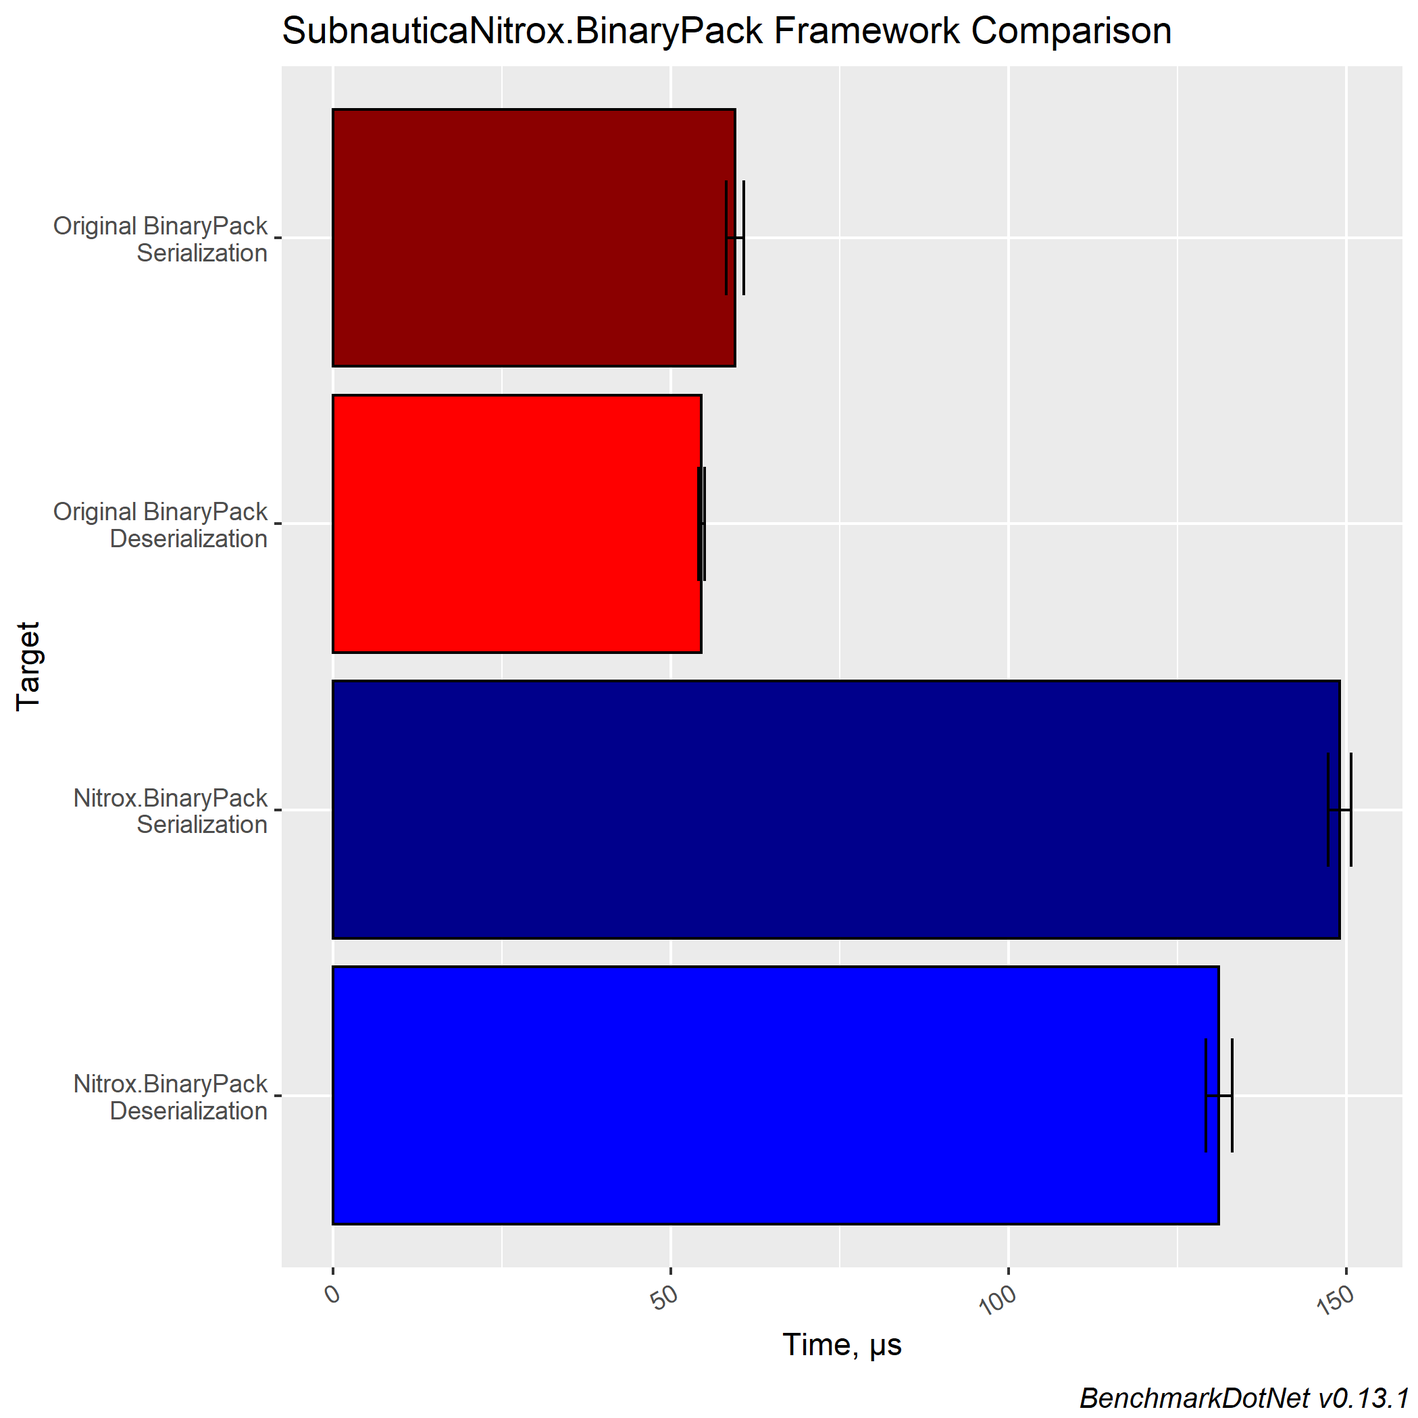
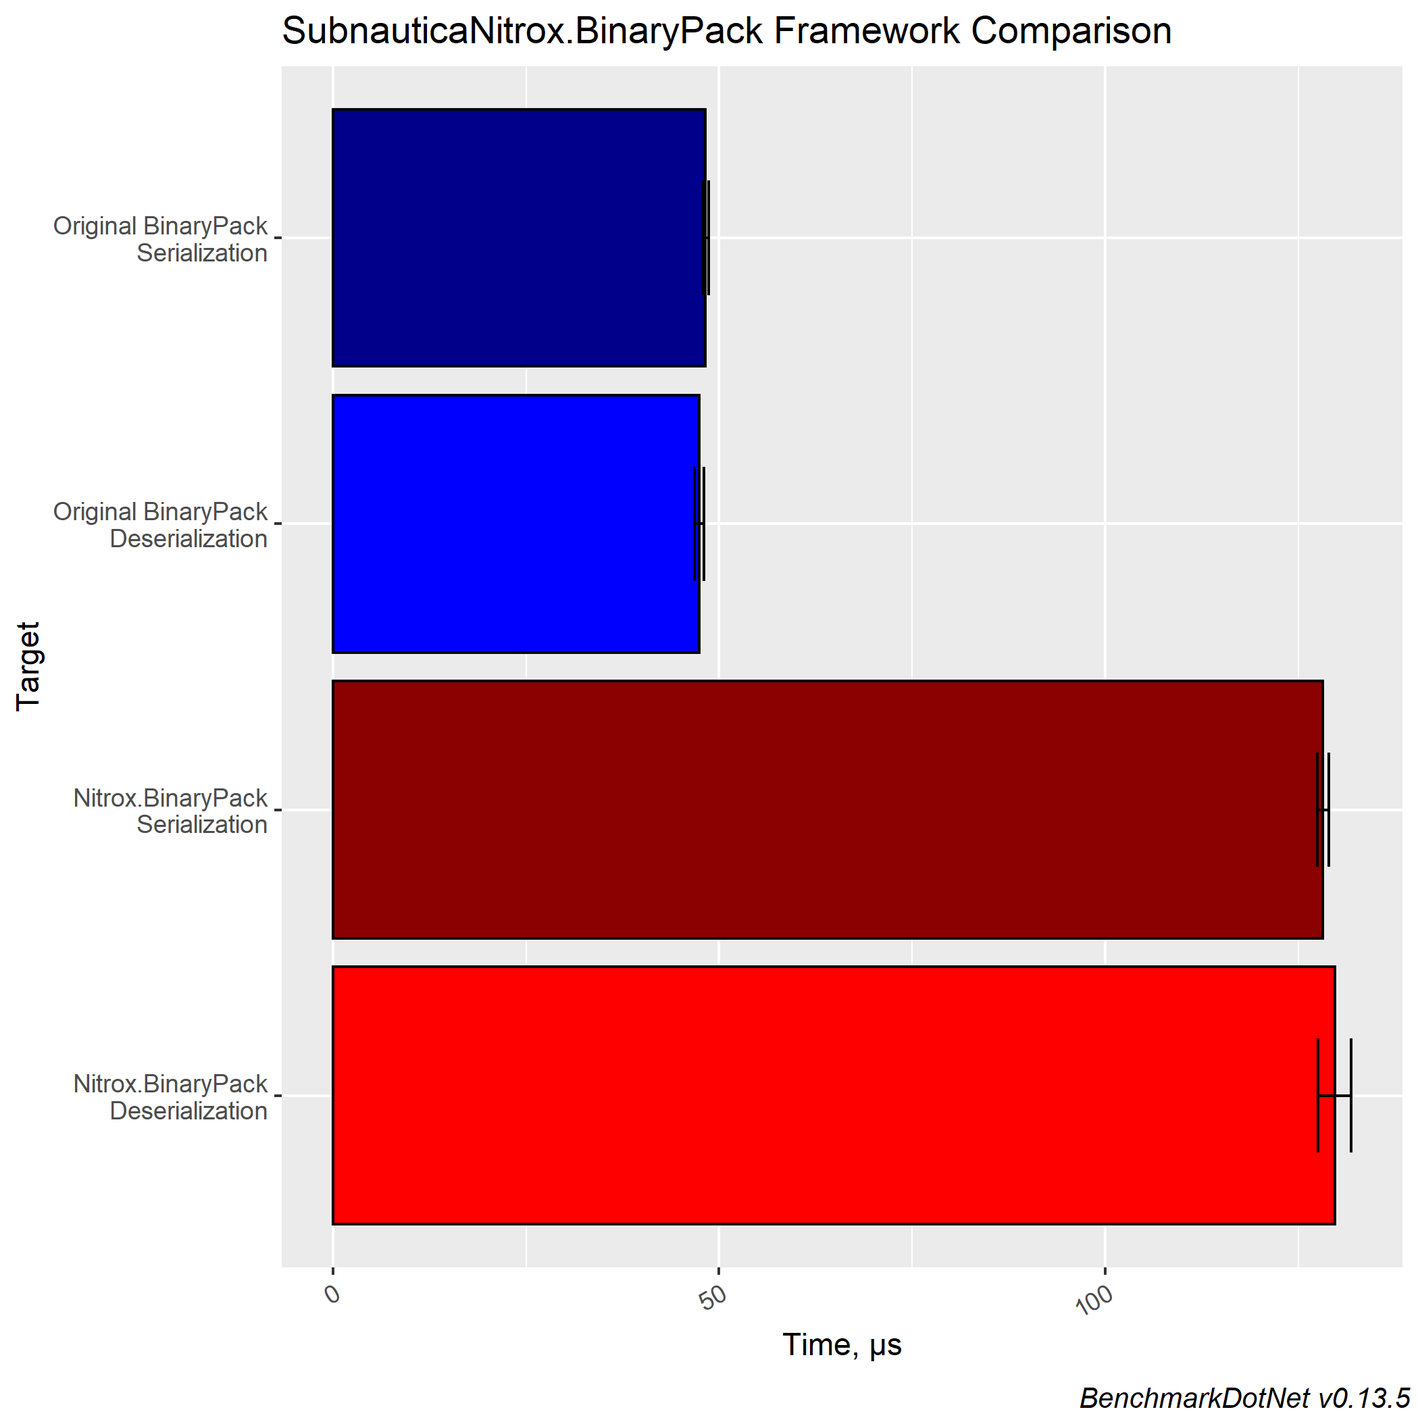
Fix benchmark project and update results (#13)
* Fix benchmark project

* Update github with new benchmark results

diff --git a/samples/BinaryPack.Benchmark/Implementation/Benchmark.cs b/samples/BinaryPack.Benchmark/Implementation/Benchmark.cs
@@ -10,7 +10,7 @@ using JsonTextReader = Newtonsoft.Json.JsonTextReader;
 using Utf8JsonWriter = System.Text.Json.Utf8JsonWriter;
 using Utf8JsonSerializer = Utf8Json.JsonSerializer;
 
-namespace BinaryPack.Benchmark.Implementations
+namespace BinaryPack.Benchmark.Implementation
 {
     /// <summary>
     /// A benchmark for a generic type using different serialization libraries
@@ -74,6 +74,23 @@ namespace BinaryPack.Benchmark.Implementations
 
                 if (!Model.Equals(deserializedModel)) throw new InvalidOperationException("Failed comparison with Newtonsoft.Json");
             }
+
+#pragma warning disable SYSLIB0011
+            // Binary formatter
+            using (MemoryStream stream = new MemoryStream())
+            {
+                var formatter = new System.Runtime.Serialization.Formatters.Binary.BinaryFormatter();
+                formatter.Serialize(stream, Model);
+
+                BinaryFormatterData = stream.ToArray();
+
+                stream.Seek(0, SeekOrigin.Begin);
+
+                deserializedModel = (T)formatter.Deserialize(stream);
+
+                if (!Model.Equals(deserializedModel)) throw new InvalidOperationException("Failed comparison with BinaryFormatter");
+            }
+#pragma warning restore SYSLIB0011
 
             // .NETCore JSON
             using (MemoryStream stream = new MemoryStream())
@@ -142,6 +159,20 @@ namespace BinaryPack.Benchmark.Implementations
                 deserializedModel = MessagePack.MessagePackSerializer.Deserialize<T>(stream, MessagePack.Resolvers.ContractlessStandardResolver.Options);
 
                 if (!Model.Equals(deserializedModel)) throw new InvalidOperationException("Failed comparison with MessagePack");
+            }
+
+
+            // BinaryPack
+            using (MemoryStream stream = new MemoryStream())
+            {
+                BinaryConverter.Serialize(Model, stream);
+
+                BinaryPackData = stream.ToArray();
+
+                stream.Seek(0, SeekOrigin.Begin);
+                deserializedModel = BinaryConverter.Deserialize<T>(stream);
+
+                if (!Model.Equals(deserializedModel)) throw new InvalidOperationException("Failed comparison with BinaryPack");
             }
         }
     }

diff --git a/samples/BinaryPack.Benchmark/Implementation/Benchmark.Serialization.cs b/samples/BinaryPack.Benchmark/Implementation/Benchmark.Serialization.cs
@@ -4,7 +4,7 @@ using JsonTextWriter = Newtonsoft.Json.JsonTextWriter;
 using Utf8JsonWriter = System.Text.Json.Utf8JsonWriter;
 using Utf8JsonSerializer = Utf8Json.JsonSerializer;
 
-namespace BinaryPack.Benchmark.Implementations
+namespace BinaryPack.Benchmark.Implementation
 {
     public partial class Benchmark<T>
     {
@@ -23,6 +23,21 @@ namespace BinaryPack.Benchmark.Implementations
             serializer.Serialize(jsonWriter, Model);
             jsonWriter.Flush();
         }
+
+#pragma warning disable SYSLIB0011
+        /// <summary>
+        /// Serialization powered by <see cref="System.Runtime.Serialization.Formatters.Binary.BinaryFormatter"/>
+        /// </summary>
+        [Benchmark(Description = "BinaryFormatter")]
+        [BenchmarkCategory(SERIALIZATION)]
+        public void BinaryFormatter1()
+        {
+            using Stream stream = new MemoryStream();
+
+            var formatter = new System.Runtime.Serialization.Formatters.Binary.BinaryFormatter();
+            formatter.Serialize(stream, Model);
+        }
+#pragma warning restore SYSLIB0011
 
         /// <summary>
         /// Serialization powered by <see cref="System.Text.Json.JsonSerializer"/>
@@ -85,6 +100,18 @@ namespace BinaryPack.Benchmark.Implementations
             using Stream stream = new MemoryStream();
 
             MessagePack.MessagePackSerializer.Serialize(stream, Model, MessagePack.Resolvers.ContractlessStandardResolver.Options);
+        }
+
+        /// <summary>
+        /// Serialization powered by <see cref="BinaryConverter"/>
+        /// </summary>
+        [Benchmark(Description = "BinaryPack")]
+        [BenchmarkCategory(SERIALIZATION)]
+        public void BinaryPack1()
+        {
+            using Stream stream = new MemoryStream();
+
+            BinaryConverter.Serialize(Model, stream);
         }
     }
 }

diff --git a/samples/BinaryPack.Benchmark/Implementation/Benchmark.Deserialization.cs b/samples/BinaryPack.Benchmark/Implementation/Benchmark.Deserialization.cs
@@ -3,7 +3,7 @@ using BenchmarkDotNet.Attributes;
 using JsonTextReader = Newtonsoft.Json.JsonTextReader;
 using Utf8JsonSerializer = Utf8Json.JsonSerializer;
 
-namespace BinaryPack.Benchmark.Implementations
+namespace BinaryPack.Benchmark.Implementation
 {
     public partial class Benchmark<T>
     {
@@ -21,6 +21,21 @@ namespace BinaryPack.Benchmark.Implementations
 
             _ = serializer.Deserialize<T>(jsonReader);
         }
+
+#pragma warning disable SYSLIB0011
+        /// <summary>
+        /// Deserialization powered by <see cref="System.Runtime.Serialization.Formatters.Binary.BinaryFormatter"/>
+        /// </summary>
+        [Benchmark(Description = "BinaryFormatter")]
+        [BenchmarkCategory(DESERIALIZATION)]
+        public void BinaryFormatter2()
+        {
+            using Stream stream = new MemoryStream(BinaryFormatterData);
+
+            var formatter = new System.Runtime.Serialization.Formatters.Binary.BinaryFormatter();
+            _ = formatter.Deserialize(stream);
+        }
+#pragma warning restore SYSLIB0011
 
         /// <summary>
         /// Deserialization powered by <see cref="System.Text.Json.JsonSerializer"/>
@@ -84,5 +99,19 @@ namespace BinaryPack.Benchmark.Implementations
 
             _ = MessagePack.MessagePackSerializer.Deserialize<T>(stream, MessagePack.Resolvers.ContractlessStandardResolver.Options);
         }
+
+
+        /// <summary>
+        /// Deserialization powered by <see cref="BinaryConverter"/>
+        /// </summary>
+        [Benchmark(Description = "BinaryPack")]
+        [BenchmarkCategory(DESERIALIZATION)]
+        public void BinaryPack2()
+        {
+            using Stream stream = new MemoryStream(BinaryPackData);
+
+            _ = BinaryConverter.Deserialize<T>(stream);
+        }
+
     }
 }

diff --git a/samples/BinaryPack.Benchmark/Program.cs b/samples/BinaryPack.Benchmark/Program.cs
@@ -1,5 +1,5 @@
 using BenchmarkDotNet.Running;
-using BinaryPack.Benchmark.Implementations;
+using BinaryPack.Benchmark.Implementation;
 using BinaryPack.Models;
 
 namespace BinaryPack.Benchmark

diff --git a/BenchmarkResults/BinaryPack.Benchmark-report-github.md b/BenchmarkResults/BinaryPack.Benchmark-report-github.md
@@ -1,48 +1,48 @@
 ``` ini
 
-BenchmarkDotNet=v0.13.1, OS=Windows 10.0.19044.1826 (21H2)
+BenchmarkDotNet=v0.13.5, OS=Windows 10 (10.0.19045.3086/22H2/2022Update)
 Intel Core i7-4790K CPU 4.00GHz (Haswell), 1 CPU, 8 logical and 4 physical cores
-.NET SDK=6.0.202
-  [Host]  : .NET Core 3.1.22 (CoreCLR 4.700.21.56803, CoreFX 4.700.21.57101), X64 RyuJIT
-  Core_31 : .NET Core 3.1.22 (CoreCLR 4.700.21.56803, CoreFX 4.700.21.57101), X64 RyuJIT
-  NET_472 : .NET Framework 4.8 (4.8.4515.0), X64 RyuJIT
+.NET SDK=7.0.304
+  [Host]  : .NET 7.0.7 (7.0.723.27404), X64 RyuJIT AVX2
+  NET_472 : .NET Framework 4.8.1 (4.8.9166.0), X64 RyuJIT VectorSize=256
+  NET_7   : .NET 7.0.7 (7.0.723.27404), X64 RyuJIT AVX2
 
 
 ```
-|           Method |     Job |              Runtime |      Categories |        Mean |     Error |    StdDev | Ratio | RatioSD |    Gen 0 |   Gen 1 |   Gen 2 | Allocated |
-|----------------- |-------- |--------------------- |---------------- |------------:|----------:|----------:|------:|--------:|---------:|--------:|--------:|----------:|
-|   NewtonsoftJson | Core_31 |        .NET Core 3.1 | Deserialization |   730.72 μs |  6.163 μs |  5.764 μs |  1.00 |    0.00 |  39.0625 |  8.7891 |       - |    160 KB |
-|  BinaryFormatter | Core_31 |        .NET Core 3.1 | Deserialization |   564.47 μs |  7.138 μs |  6.677 μs |  0.77 |    0.01 |  79.1016 | 25.3906 |       - |    354 KB |
-|      NetCoreJson | Core_31 |        .NET Core 3.1 | Deserialization |   680.27 μs |  4.891 μs |  4.575 μs |  0.93 |    0.01 |  26.3672 |  2.9297 |       - |    109 KB |
-|    XmlSerializer | Core_31 |        .NET Core 3.1 | Deserialization |   748.63 μs |  8.086 μs |  6.752 μs |  1.03 |    0.02 |  44.9219 |       - |       - |    186 KB |
-| DataContractJson | Core_31 |        .NET Core 3.1 | Deserialization | 2,658.74 μs | 24.954 μs | 23.342 μs |  3.64 |    0.04 | 140.6250 | 35.1563 |       - |    578 KB |
-|         Utf8Json | Core_31 |        .NET Core 3.1 | Deserialization |   404.14 μs |  5.773 μs |  5.400 μs |  0.55 |    0.01 |  41.5039 | 41.5039 | 41.5039 |    234 KB |
-|      MessagePack | Core_31 |        .NET Core 3.1 | Deserialization |   128.44 μs |  1.818 μs |  1.612 μs |  0.18 |    0.00 |  23.4375 |  5.6152 |       - |     97 KB |
-|       BinaryPack | Core_31 |        .NET Core 3.1 | Deserialization |    54.56 μs |  0.514 μs |  0.480 μs |  0.07 |    0.00 |  22.2778 |  0.1831 |       - |     91 KB |
-|                  |         |                      |                 |             |           |           |       |         |          |         |         |           |
-|   NewtonsoftJson | Core_31 |        .NET Core 3.1 |   Serialization |   583.42 μs |  6.262 μs |  5.551 μs |  1.00 |    0.00 |  41.0156 | 41.0156 | 41.0156 |    295 KB |
-|  BinaryFormatter | Core_31 |        .NET Core 3.1 |   Serialization |   513.58 μs |  4.932 μs |  4.372 μs |  0.88 |    0.01 |  62.5000 | 15.6250 |       - |    256 KB |
-|      NetCoreJson | Core_31 |        .NET Core 3.1 |   Serialization |   484.44 μs |  4.756 μs |  4.216 μs |  0.83 |    0.01 |  76.1719 | 75.1953 | 38.0859 |    299 KB |
-|    XmlSerializer | Core_31 |        .NET Core 3.1 |   Serialization |   688.90 μs |  9.934 μs |  9.293 μs |  1.18 |    0.02 | 102.5391 | 60.5469 | 41.0156 |    477 KB |
-| DataContractJson | Core_31 |        .NET Core 3.1 |   Serialization |   847.21 μs | 16.446 μs | 23.054 μs |  1.43 |    0.04 |  34.1797 | 34.1797 | 34.1797 |    226 KB |
-|         Utf8Json | Core_31 |        .NET Core 3.1 |   Serialization |   387.30 μs |  7.543 μs | 10.575 μs |  0.66 |    0.02 |  41.5039 | 41.5039 | 41.5039 |    196 KB |
-|      MessagePack | Core_31 |        .NET Core 3.1 |   Serialization |    81.34 μs |  1.617 μs |  2.565 μs |  0.14 |    0.00 |  25.8789 |  5.1270 |       - |    107 KB |
-|       BinaryPack | Core_31 |        .NET Core 3.1 |   Serialization |    59.50 μs |  1.148 μs |  1.322 μs |  0.10 |    0.00 |  11.1084 |  1.3428 |       - |     46 KB |
-|                  |         |                      |                 |             |           |           |       |         |          |         |         |           |
-|   NewtonsoftJson | NET_472 | .NET Framework 4.7.2 | Deserialization |   833.02 μs | 16.206 μs | 18.662 μs |  1.00 |    0.00 |  41.0156 |       - |       - |    171 KB |
-|  BinaryFormatter | NET_472 | .NET Framework 4.7.2 | Deserialization |   722.38 μs | 13.760 μs | 15.295 μs |  0.87 |    0.03 |  90.8203 | 28.3203 |       - |    373 KB |
-|      NetCoreJson | NET_472 | .NET Framework 4.7.2 | Deserialization | 1,018.29 μs | 19.782 μs | 19.429 μs |  1.22 |    0.03 |  25.3906 |  5.8594 |       - |    109 KB |
-|    XmlSerializer | NET_472 | .NET Framework 4.7.2 | Deserialization |   939.82 μs | 17.311 μs | 17.002 μs |  1.13 |    0.04 |  48.8281 | 11.7188 |       - |    203 KB |
-| DataContractJson | NET_472 | .NET Framework 4.7.2 | Deserialization | 2,792.53 μs | 53.890 μs | 52.927 μs |  3.35 |    0.10 | 140.6250 |       - |       - |    588 KB |
-|         Utf8Json | NET_472 | .NET Framework 4.7.2 | Deserialization |   507.56 μs | 10.007 μs | 13.697 μs |  0.61 |    0.02 |  41.0156 | 41.0156 | 41.0156 |    243 KB |
-|      MessagePack | NET_472 | .NET Framework 4.7.2 | Deserialization |   283.43 μs |  3.039 μs |  2.842 μs |  0.34 |    0.01 |  26.8555 |  4.3945 |       - |    111 KB |
-|       BinaryPack | NET_472 | .NET Framework 4.7.2 | Deserialization |   131.14 μs |  2.096 μs |  1.961 μs |  0.16 |    0.00 |  45.4102 |  9.0332 |       - |    189 KB |
-|                  |         |                      |                 |             |           |           |       |         |          |         |         |           |
-|   NewtonsoftJson | NET_472 | .NET Framework 4.7.2 |   Serialization |   715.58 μs |  9.049 μs |  8.464 μs |  1.00 |    0.00 |  41.0156 | 41.0156 | 41.0156 |    296 KB |
-|  BinaryFormatter | NET_472 | .NET Framework 4.7.2 |   Serialization |   708.37 μs |  8.516 μs |  7.966 μs |  0.99 |    0.02 |  76.1719 | 21.4844 |       - |    314 KB |
-|      NetCoreJson | NET_472 | .NET Framework 4.7.2 |   Serialization |   850.44 μs | 10.149 μs |  9.493 μs |  1.19 |    0.02 |  66.4063 | 66.4063 | 66.4063 |    334 KB |
-|    XmlSerializer | NET_472 | .NET Framework 4.7.2 |   Serialization |   921.63 μs |  9.804 μs |  9.170 μs |  1.29 |    0.02 | 124.0234 | 82.0313 | 41.0156 |    490 KB |
-| DataContractJson | NET_472 | .NET Framework 4.7.2 |   Serialization |   906.79 μs |  8.220 μs |  7.287 μs |  1.27 |    0.02 |  35.1563 | 35.1563 | 35.1563 |    229 KB |
-|         Utf8Json | NET_472 | .NET Framework 4.7.2 |   Serialization |   416.66 μs |  5.498 μs |  5.143 μs |  0.58 |    0.01 |  41.5039 | 41.5039 | 41.5039 |    201 KB |
-|      MessagePack | NET_472 | .NET Framework 4.7.2 |   Serialization |   132.01 μs |  2.336 μs |  2.185 μs |  0.18 |    0.00 |  26.1230 |  4.1504 |       - |    108 KB |
-|       BinaryPack | NET_472 | .NET Framework 4.7.2 |   Serialization |   149.00 μs |  1.835 μs |  1.716 μs |  0.21 |    0.00 |  15.3809 |  2.4414 |       - |     64 KB |
+|           Method |     Job |              Runtime |      Categories |        Mean |      Error |     StdDev |      Median | Ratio | RatioSD |     Gen0 |    Gen1 |    Gen2 | Allocated | Alloc Ratio |
+|----------------- |-------- |--------------------- |---------------- |------------:|-----------:|-----------:|------------:|------:|--------:|---------:|--------:|--------:|----------:|------------:|
+|   NewtonsoftJson | NET_472 | .NET Framework 4.7.2 | Deserialization |   755.44 μs |   8.649 μs |   8.091 μs |   753.70 μs |  1.00 |    0.00 |  39.0625 |  9.7656 |       - | 164.13 KB |        1.00 |
+|  BinaryFormatter | NET_472 | .NET Framework 4.7.2 | Deserialization |   602.19 μs |   8.877 μs |   8.304 μs |   601.43 μs |  0.80 |    0.02 |  78.1250 | 25.3906 |       - | 323.74 KB |        1.97 |
+|      NetCoreJson | NET_472 | .NET Framework 4.7.2 | Deserialization |   992.52 μs |  15.267 μs |  14.281 μs |   992.06 μs |  1.31 |    0.02 |  27.3438 |  5.8594 |       - | 116.61 KB |        0.71 |
+|    XmlSerializer | NET_472 | .NET Framework 4.7.2 | Deserialization |   786.40 μs |   8.094 μs |   6.759 μs |   787.16 μs |  1.04 |    0.01 |  46.8750 |  0.9766 |       - | 192.29 KB |        1.17 |
+| DataContractJson | NET_472 | .NET Framework 4.7.2 | Deserialization | 2,360.94 μs |  31.706 μs |  29.658 μs | 2,357.62 μs |  3.13 |    0.06 | 132.8125 | 31.2500 |       - | 558.99 KB |        3.41 |
+|         Utf8Json | NET_472 | .NET Framework 4.7.2 | Deserialization |   468.39 μs |   6.252 μs |   5.848 μs |   468.13 μs |  0.62 |    0.01 |  41.5039 | 41.5039 | 41.5039 |  250.7 KB |        1.53 |
+|      MessagePack | NET_472 | .NET Framework 4.7.2 | Deserialization |   251.81 μs |   4.508 μs |   4.216 μs |   252.45 μs |  0.33 |    0.01 |  23.9258 |  5.3711 |       - |  99.12 KB |        0.60 |
+|       BinaryPack | NET_472 | .NET Framework 4.7.2 | Deserialization |   129.70 μs |   2.287 μs |   2.139 μs |   130.20 μs |  0.17 |    0.00 |  48.5840 | 11.9629 |       - | 200.65 KB |        1.22 |
+|                  |         |                      |                 |             |            |            |             |       |         |          |         |         |           |             |
+|   NewtonsoftJson |   NET_7 |             .NET 7.0 | Deserialization |   592.42 μs |   6.279 μs |   5.874 μs |   592.28 μs |  1.00 |    0.00 |  40.0391 |  9.7656 |       - |  166.9 KB |        1.00 |
+|  BinaryFormatter |   NET_7 |             .NET 7.0 | Deserialization |   444.81 μs |   7.466 μs |   6.234 μs |   443.73 μs |  0.75 |    0.01 |  73.2422 | 21.9727 |       - | 329.58 KB |        1.97 |
+|      NetCoreJson |   NET_7 |             .NET 7.0 | Deserialization |   493.91 μs |   6.178 μs |   5.779 μs |   493.08 μs |  0.83 |    0.01 |  27.8320 |       - |       - | 115.35 KB |        0.69 |
+|    XmlSerializer |   NET_7 |             .NET 7.0 | Deserialization |   601.00 μs |   8.765 μs |   7.319 μs |   602.15 μs |  1.01 |    0.02 |  44.9219 |  4.8828 |       - | 185.34 KB |        1.11 |
+| DataContractJson |   NET_7 |             .NET 7.0 | Deserialization | 2,993.31 μs | 150.925 μs | 445.007 μs | 2,928.61 μs |  6.05 |    0.57 | 148.4375 |  7.8125 |       - |  614.5 KB |        3.68 |
+|         Utf8Json |   NET_7 |             .NET 7.0 | Deserialization |   221.03 μs |   4.404 μs |  12.846 μs |   215.98 μs |  0.40 |    0.02 |  23.4375 |  4.3945 |       - |  96.34 KB |        0.58 |
+|      MessagePack |   NET_7 |             .NET 7.0 | Deserialization |    90.89 μs |   1.352 μs |   1.265 μs |    91.08 μs |  0.15 |    0.00 |  23.8037 |  2.8076 |       - |  97.49 KB |        0.58 |
+|       BinaryPack |   NET_7 |             .NET 7.0 | Deserialization |    47.44 μs |   0.638 μs |   0.596 μs |    47.58 μs |  0.08 |    0.00 |  22.5220 |  4.5166 |       - |     92 KB |        0.55 |
+|                  |         |                      |                 |             |            |            |             |       |         |          |         |         |           |             |
+|   NewtonsoftJson | NET_472 | .NET Framework 4.7.2 |   Serialization |   635.29 μs |   8.857 μs |   8.285 μs |   636.17 μs |  1.00 |    0.00 |  41.0156 | 41.0156 | 41.0156 | 293.55 KB |        1.00 |
+|  BinaryFormatter | NET_472 | .NET Framework 4.7.2 |   Serialization |   642.29 μs |   7.380 μs |   6.162 μs |   643.14 μs |  1.01 |    0.02 |  75.1953 | 18.5547 |       - | 310.19 KB |        1.06 |
+|      NetCoreJson | NET_472 | .NET Framework 4.7.2 |   Serialization |   660.66 μs |   8.767 μs |   8.200 μs |   657.72 μs |  1.04 |    0.01 |  79.1016 | 78.1250 | 39.0625 |  312.4 KB |        1.06 |
+|    XmlSerializer | NET_472 | .NET Framework 4.7.2 |   Serialization |   894.15 μs |   9.717 μs |   9.090 μs |   893.19 μs |  1.41 |    0.02 | 103.5156 | 80.0781 | 41.0156 | 478.31 KB |        1.63 |
+| DataContractJson | NET_472 | .NET Framework 4.7.2 |   Serialization |   855.62 μs |   9.279 μs |   8.680 μs |   853.21 μs |  1.35 |    0.02 |  34.1797 | 34.1797 | 34.1797 | 227.64 KB |        0.78 |
+|         Utf8Json | NET_472 | .NET Framework 4.7.2 |   Serialization |   378.24 μs |   3.515 μs |   3.288 μs |   379.11 μs |  0.60 |    0.01 |  41.5039 | 41.5039 | 41.5039 | 197.34 KB |        0.67 |
+|      MessagePack | NET_472 | .NET Framework 4.7.2 |   Serialization |   112.81 μs |   0.756 μs |   0.631 μs |   113.00 μs |  0.18 |    0.00 |  25.6348 |  4.2725 |       - | 106.21 KB |        0.36 |
+|       BinaryPack | NET_472 | .NET Framework 4.7.2 |   Serialization |   128.17 μs |   0.806 μs |   0.715 μs |   128.09 μs |  0.20 |    0.00 |  20.0195 |  3.1738 |       - |  83.33 KB |        0.28 |
+|                  |         |                      |                 |             |            |            |             |       |         |          |         |         |           |             |
+|   NewtonsoftJson |   NET_7 |             .NET 7.0 |   Serialization |   459.78 μs |   5.719 μs |   5.350 μs |   460.20 μs |  1.00 |    0.00 |  41.5039 | 41.5039 | 41.5039 | 291.54 KB |        1.00 |
+|  BinaryFormatter |   NET_7 |             .NET 7.0 |   Serialization |   400.47 μs |   3.118 μs |   2.764 μs |   401.03 μs |  0.87 |    0.01 |  62.0117 | 14.6484 |       - | 255.13 KB |        0.88 |
+|      NetCoreJson |   NET_7 |             .NET 7.0 |   Serialization |   401.95 μs |   3.511 μs |   3.112 μs |   402.56 μs |  0.87 |    0.01 |  83.0078 | 82.5195 | 41.5039 | 320.12 KB |        1.10 |
+|    XmlSerializer |   NET_7 |             .NET 7.0 |   Serialization |   658.70 μs |   9.517 μs |   8.903 μs |   658.38 μs |  1.43 |    0.03 |  90.8203 | 90.8203 | 90.8203 | 420.74 KB |        1.44 |
+| DataContractJson |   NET_7 |             .NET 7.0 |   Serialization |   683.30 μs |   7.291 μs |   6.820 μs |   684.48 μs |  1.49 |    0.02 |  35.1563 | 35.1563 | 35.1563 | 230.19 KB |        0.79 |
+|         Utf8Json |   NET_7 |             .NET 7.0 |   Serialization |   365.78 μs |   4.568 μs |   4.050 μs |   366.56 μs |  0.80 |    0.01 |  41.5039 | 41.5039 | 41.5039 | 207.42 KB |        0.71 |
+|      MessagePack |   NET_7 |             .NET 7.0 |   Serialization |    61.36 μs |   1.157 μs |   1.082 μs |    61.19 μs |  0.13 |    0.00 |  25.9399 |       - |       - | 106.95 KB |        0.37 |
+|       BinaryPack |   NET_7 |             .NET 7.0 |   Serialization |    48.23 μs |   0.418 μs |   0.391 μs |    48.29 μs |  0.10 |    0.00 |  10.3760 |       - |       - |  42.99 KB |        0.15 |

diff --git a/README.md b/README.md
@@ -37,6 +37,6 @@ Here are benchmarks executed with the benchmark sample ([JsonResponseModel](http
 
 # Requirements
 
-This **BinaryPack** fork requires .NET Framework 4.7.2
+This **BinaryPack** fork requires **NetFramework 4.7.2**, **NetStandard 2.0** or **Net 7**
 
-The test projects also require .NET CoreApp 3.1
+The test and benchmark projects require **Net 7**
